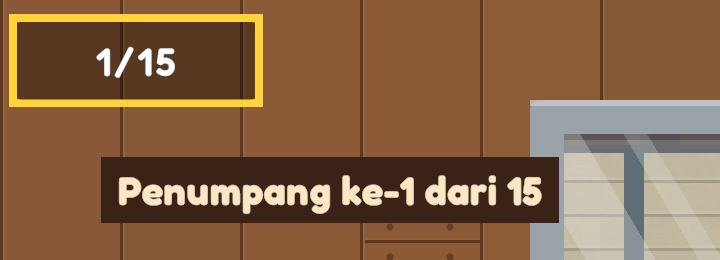
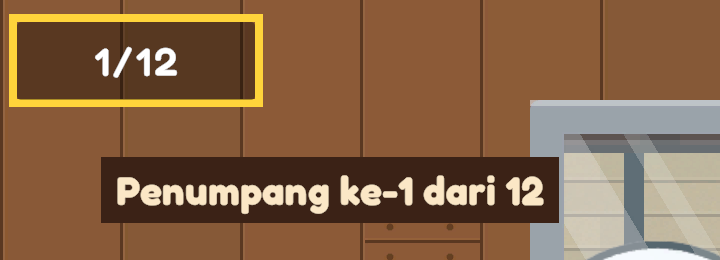
add reverse train in level 2 ch 1, decrease number of questions at ch 2

Changed region(s): [[0.1528, 0.6769, 0.7639, 0.8308], [0.7944, 0.9231, 1.0, 1.0], [0.1222, 0.1846, 0.2444, 0.3077]]

diff --git a/Assets/Scripts/TrainLoading/TrainController.cs b/Assets/Scripts/TrainLoading/TrainController.cs
@@ -2,15 +2,15 @@ using System.Collections;
 using System.Collections.Generic;
 using UnityEngine;
 
-// Kereta bergerak ke kiri, kamera diam. Gerbong fisik dipakai ulang:
-// gerbong yang sudah lewat jauh di kiri dipindah ke ujung belakang (tanpa Destroy/Instantiate).
+// Kereta bergerak, kamera diam. Arah default ke kiri (masuk dari kanan); bisa dibalik ke kanan (masuk dari kiri) per level.
+// Gerbong fisik dipakai ulang: gerbong yang sudah lewat jauh di belakang layar dipindah ke ujung belakang (tanpa Destroy/Instantiate).
 public class TrainController : MonoBehaviour
 {
-    [Tooltip("Gerbong yang dipakai ulang. Minimal 4: yang keluar di kiri, sekarang, berikutnya, dan yang masuk dari kanan saat transisi")]
+    [Tooltip("Gerbong yang dipakai ulang. Minimal 4: yang keluar layar, sekarang, berikutnya, dan yang masuk saat transisi")]
     [SerializeField] private WagonScript[] wagons;
     [Tooltip("Jarak antar pusat gerbong (lebar gerbong + sambungan)")]
     [SerializeField] private float wagonSpacing = 22f;
-    [Tooltip("Jarak awal kereta di kanan layar sebelum datang")]
+    [Tooltip("Jarak awal kereta di luar layar sebelum datang")]
     [SerializeField] private float arriveDistance = 33f;
     [SerializeField] private float arriveDuration = 2f;
     [Tooltip("Lama transisi ke gerbong berikutnya. Notifikasi benar/salah tampil selama transisi ini")]
@@ -28,12 +28,37 @@ public class TrainController : MonoBehaviour
     private int[] wagonIndex; // indeks gerbong (urutan soal) yang sedang dipegang tiap gerbong fisik
     private IList<WagonPlan> plans; // jumlah box dan label peran tiap gerbong
 
+    // +1: kereta masuk dari kanan dan bergerak ke kiri (default). -1: masuk dari kiri dan bergerak ke kanan.
+    // Juga sisi tempat gerbong berikutnya tersusun (di belakang lokomotif)
+    private int side = 1;
+    private Vector3 locomotiveBasePosition;
+    private Vector3 locomotiveBaseScale;
+
     void Awake()
     {
         baseX = transform.position.x;
+        if (locomotive != null)
+        {
+            locomotiveBasePosition = locomotive.localPosition;
+            locomotiveBaseScale = locomotive.localScale;
+        }
     }
 
-    // Siapkan kereta di luar layar sebelah kanan dengan jumlah gerbong = jumlah langkah level (tutorial + soal).
+    // Dipanggil sebelum Setup. fromLeft = kereta masuk dari kiri layar dan bergerak ke kanan
+    public void SetDirection(bool fromLeft)
+    {
+        side = fromLeft ? -1 : 1;
+        if (locomotive == null) return;
+        // Lokomotif tetap di depan rangkaian dan menghadap ke arah gerak
+        Vector3 p = locomotiveBasePosition;
+        p.x *= side;
+        locomotive.localPosition = p;
+        Vector3 s = locomotiveBaseScale;
+        s.x = Mathf.Abs(s.x) * side;
+        locomotive.localScale = s;
+    }
+
+    // Siapkan kereta di luar layar dengan jumlah gerbong = jumlah langkah level (tutorial + soal).
     // wagonPlans[i] diterapkan saat gerbong ke-i dipasang (masih di luar layar)
     public void Setup(IList<WagonPlan> wagonPlans)
     {
@@ -42,29 +67,44 @@ public class TrainController : MonoBehaviour
         CurrentIndex = 0;
         wagonIndex = new int[wagons.Length];
         for (int i = 0; i < wagons.Length; i++) AssignWagon(i, i);
-        SetX(Mathf.Max(baseX + arriveDistance, OffscreenRightX()));
+        float start = side > 0
+            ? Mathf.Max(baseX + arriveDistance, OffscreenX())
+            : Mathf.Min(baseX - arriveDistance, OffscreenX());
+        SetX(start);
     }
 
-    // Posisi x kereta agar seluruh bagiannya (termasuk lokomotif) berada di luar layar kanan
-    float OffscreenRightX()
+    // Posisi x kereta agar seluruh bagiannya (termasuk lokomotif) berada di luar layar pada sisi kedatangan
+    float OffscreenX()
     {
         Camera cam = Camera.main;
-        float cameraRight = cam.transform.position.x + cam.orthographicSize * cam.aspect;
-        float minX = float.MaxValue;
-        foreach (Renderer r in GetComponentsInChildren<Renderer>()) minX = Mathf.Min(minX, r.bounds.min.x);
+        float halfWidth = cam.orthographicSize * cam.aspect;
+        float minX = float.MaxValue, maxX = float.MinValue;
+        foreach (Renderer r in GetComponentsInChildren<Renderer>())
+        {
+            minX = Mathf.Min(minX, r.bounds.min.x);
+            maxX = Mathf.Max(maxX, r.bounds.max.x);
+        }
         if (minX == float.MaxValue) return transform.position.x;
-        return cameraRight + (transform.position.x - minX) + 1f;
+        if (side > 0) return cam.transform.position.x + halfWidth + (transform.position.x - minX) + 1f;
+        return cam.transform.position.x - halfWidth - (maxX - transform.position.x) - 1f;
     }
 
-    // Lokomotif hanya penarik di awal: hapus permanen setelah keluar dari layar kiri
+    // Lokomotif hanya penarik di awal: hapus permanen setelah keluar dari layar di sisi tujuan
     void DestroyLocomotiveIfOffscreen()
     {
         if (locomotive == null) return;
         Camera cam = Camera.main;
-        float cameraLeft = cam.transform.position.x - cam.orthographicSize * cam.aspect;
-        float maxX = float.MinValue;
-        foreach (Renderer r in locomotive.GetComponentsInChildren<Renderer>()) maxX = Mathf.Max(maxX, r.bounds.max.x);
-        if (maxX < cameraLeft)
+        float halfWidth = cam.orthographicSize * cam.aspect;
+        float minX = float.MaxValue, maxX = float.MinValue;
+        foreach (Renderer r in locomotive.GetComponentsInChildren<Renderer>())
+        {
+            minX = Mathf.Min(minX, r.bounds.min.x);
+            maxX = Mathf.Max(maxX, r.bounds.max.x);
+        }
+        bool offscreen = side > 0
+            ? maxX < cam.transform.position.x - halfWidth
+            : minX > cam.transform.position.x + halfWidth;
+        if (offscreen)
         {
             Destroy(locomotive.gameObject);
             locomotive = null;
@@ -81,8 +121,8 @@ public class TrainController : MonoBehaviour
     {
         AudioManager.Instance.PlayTrainMoveSound();
 
-        // Sebelum kereta bergerak: gerbong yang sudah 2 posisi di kiri (tidak terlihat) disambung ke ujung belakang.
-        // Posisinya masih di luar layar kanan, jadi gerbong ikut masuk layar bersama rangkaian, tidak muncul tiba-tiba.
+        // Sebelum kereta bergerak: gerbong yang sudah 2 posisi lewat (tidak terlihat) disambung ke ujung belakang.
+        // Posisinya masih di luar layar, jadi gerbong ikut masuk layar bersama rangkaian, tidak muncul tiba-tiba.
         // Gerbong di luar jumlah soal dinonaktifkan oleh AssignWagon, jadi di soal terakhir tidak ada gerbong tambahan.
         for (int i = 0; i < wagons.Length; i++)
         {
@@ -90,7 +130,7 @@ public class TrainController : MonoBehaviour
         }
 
         CurrentIndex++;
-        yield return MoveTo(baseX - CurrentIndex * wagonSpacing, moveDuration);
+        yield return MoveTo(baseX - side * CurrentIndex * wagonSpacing, moveDuration);
         DestroyLocomotiveIfOffscreen();
     }
 
@@ -102,11 +142,11 @@ public class TrainController : MonoBehaviour
         return last;
     }
 
-    // Kereta berangkat meninggalkan layar ke kiri
+    // Kereta berangkat meninggalkan layar searah geraknya
     public IEnumerator Depart()
     {
         AudioManager.Instance.PlayTrainMoveSound();
-        yield return MoveTo(transform.position.x - arriveDistance, departDuration);
+        yield return MoveTo(transform.position.x - side * arriveDistance, departDuration);
     }
 
     void AssignWagon(int physical, int logical)
@@ -118,7 +158,7 @@ public class TrainController : MonoBehaviour
         if (logical < totalWagons) wagon.Configure(plans[logical]);
 
         Vector3 p = wagon.transform.localPosition;
-        p.x = logical * wagonSpacing;
+        p.x = side * logical * wagonSpacing;
         wagon.transform.localPosition = p;
     }
 

diff --git a/Assets/Scripts/TrainLoading/BoxSpawner.cs b/Assets/Scripts/TrainLoading/BoxSpawner.cs
@@ -45,6 +45,8 @@ public class BoxSpawner : MonoBehaviour
     [Header("Questions")]
     [Tooltip("Bank soal per level, urut dari Level 1. Level dipilih dari menu (LevelSelection.Level)")]
     [SerializeField] private QuestionBank[] levelBanks;
+    [Tooltip("Level yang keretanya masuk dari kiri dan bergerak ke kanan (variasi). Level lain masuk dari kanan")]
+    [SerializeField] private int[] levelsFromLeft = { 2 };
     [Tooltip("Bank cadangan bila level yang dipilih belum punya bank di Level Banks")]
     [SerializeField] private QuestionBank questionBank;
     [Header("Bintang (dinilai dari jumlah jawaban benar seluruh soal)")]
@@ -191,6 +193,8 @@ public class BoxSpawner : MonoBehaviour
                 roles = step.IsTutorial ? step.tutorial.GetRoles() : null
             });
         }
+        // Variasi arah: level tertentu keretanya masuk dari kiri, sisanya dari kanan
+        train.SetDirection(System.Array.IndexOf(levelsFromLeft, LevelSelection.Level) >= 0);
         train.Setup(plans);
         // Kereta sudah di luar layar sebelum intro memudar, jadi posisi kereta di editor tidak sempat terlihat.
         // Level 1 diawali intro chapter, level berikutnya langsung intro level

diff --git a/Exports/Daftar_Soal.md b/Exports/Daftar_Soal.md
@@ -63,7 +63,7 @@ Pemain menyusun kotak kata menjadi kalimat. Soal dimainkan berurutan: 4 positif,
 
 Pemain mencari bagian yang salah pada catatan tiket: (A), (B), atau Tidak Ada Kesalahan. Tense dipilih dengan Weighted Random.
 
-Chapter ini hanya punya 1 level. Semua 60 soal berada di satu bank (BankSoal_Ch2), dan setiap permainan mengambil 15 soal secara acak. Bintang 1 / 2 / 3 didapat dengan 6 / 10 / 15 jawaban benar.
+Chapter ini hanya punya 1 level. Semua 60 soal berada di satu bank (BankSoal_Ch2), dan setiap permainan mengambil 12 soal secara acak. Bintang 1 / 2 / 3 didapat dengan 5 / 8 / 12 jawaban benar.
 
 ### Simple Present (20 soal)
 
